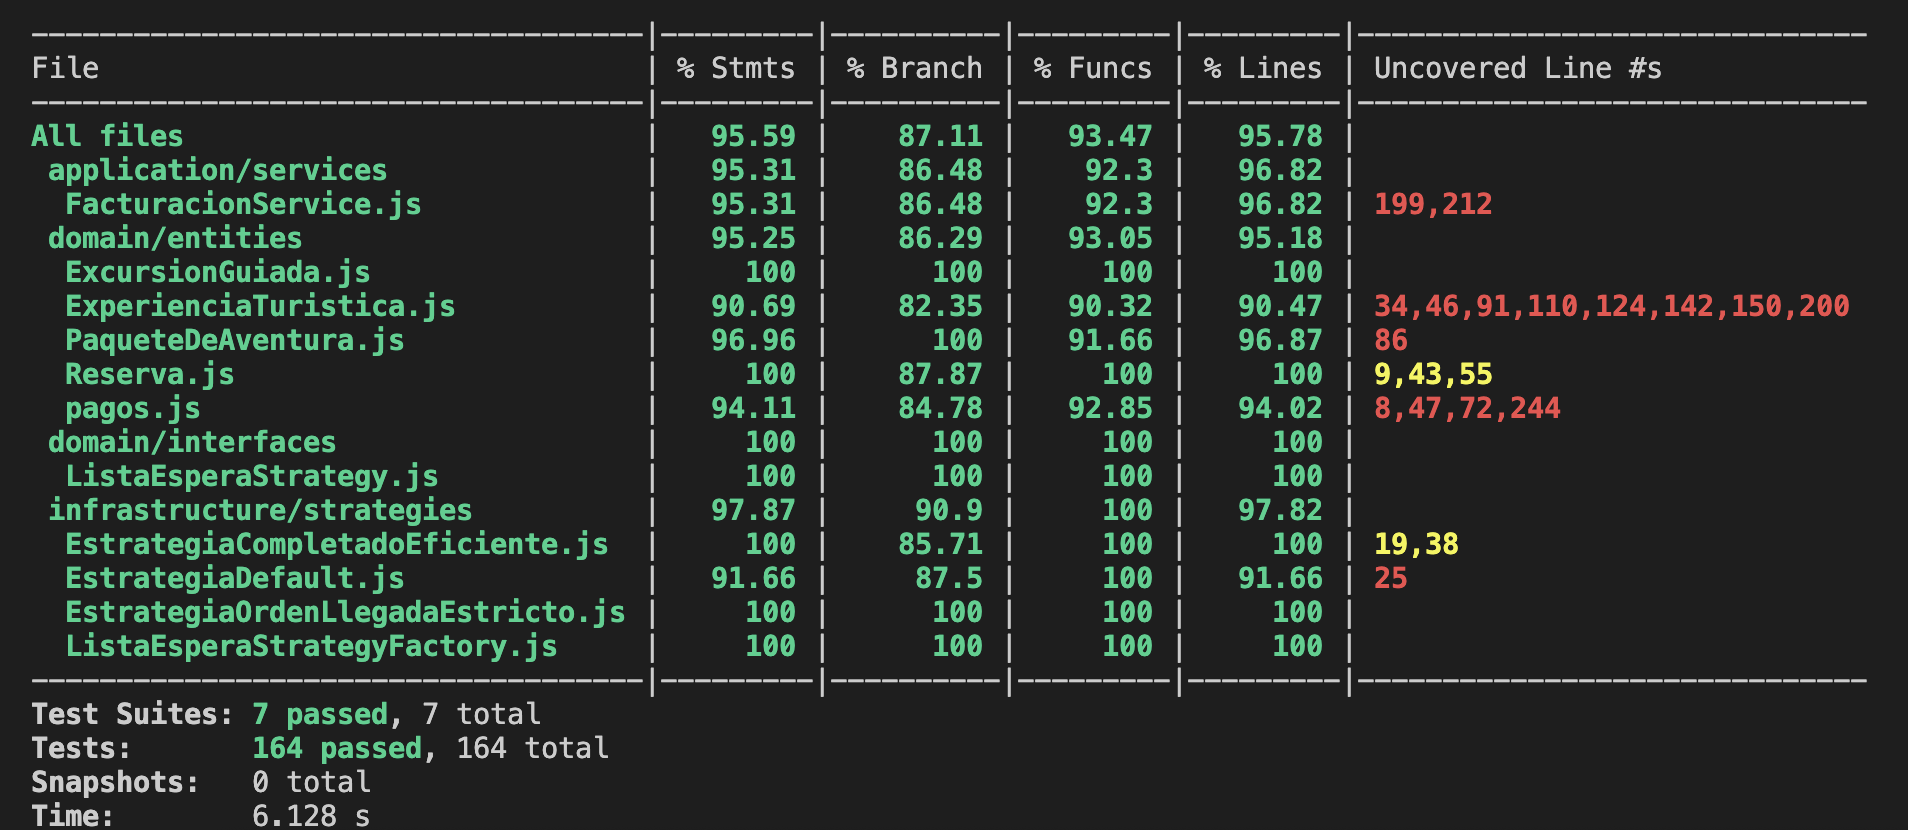
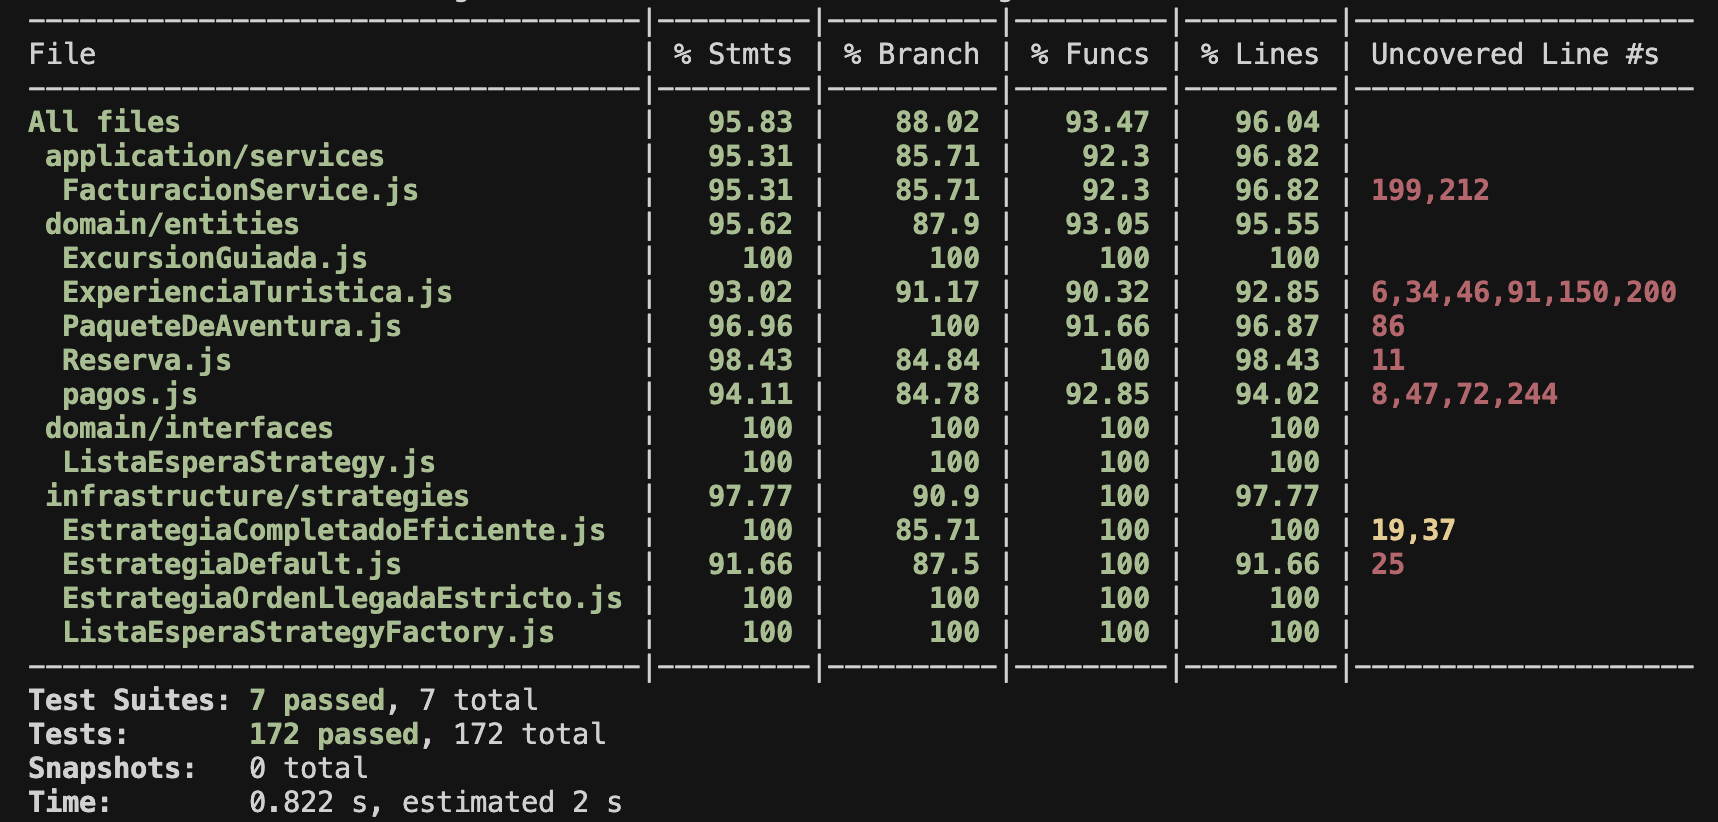
Se agrega referencia a ADRs en README y actualiza coverage

Changed region(s): [[0.0, 0.0, 0.9872, 1.0]]

diff --git a/README.md b/README.md
@@ -119,3 +119,20 @@ Entre los refactorings
 
 
 ![Refactoring](refactoring.png)
+
+## Architectural Decision Records (ADRs)
+
+Este proyecto documenta las decisiones arquitectónicas importantes utilizando Architectural Decision Records (ADRs). Los ADRs proporcionan un registro histórico de las decisiones de diseño, incluyendo el contexto, las opciones consideradas y las consecuencias de cada decisión.
+
+### ADRs Documentados
+
+Los ADRs están organizados en el directorio [`docs/decisions/`](docs/decisions/) y incluyen:
+
+- [ADR-0000: Use Markdown Architectural Decision Records](docs/decisions/0000-use-markdown-architectural-decision-records.md)
+- [ADR-0001: Adoptar Clean Architecture](docs/decisions/0001-adoptar-clean-architecture.md)
+- [ADR-0002: Estructura de Capas Clean Architecture](docs/decisions/0002-estructura-de-capas-clean-architecture.md)
+- [ADR-0003: Estrategia de Migración y Compatibilidad](docs/decisions/0003-estrategia-de-migracion-y-compatibilidad.md)
+- [ADR-0004: Patrón Estrategia Lista Espera](docs/decisions/0004-patron-estrategia-lista-espera.md)
+- [ADR-0005: Servicio Facturación](docs/decisions/0005-servicio-facturacion.md)
+
+Para más información sobre cómo crear nuevos ADRs, consulta el [README de decisiones](docs/decisions/README.md).
